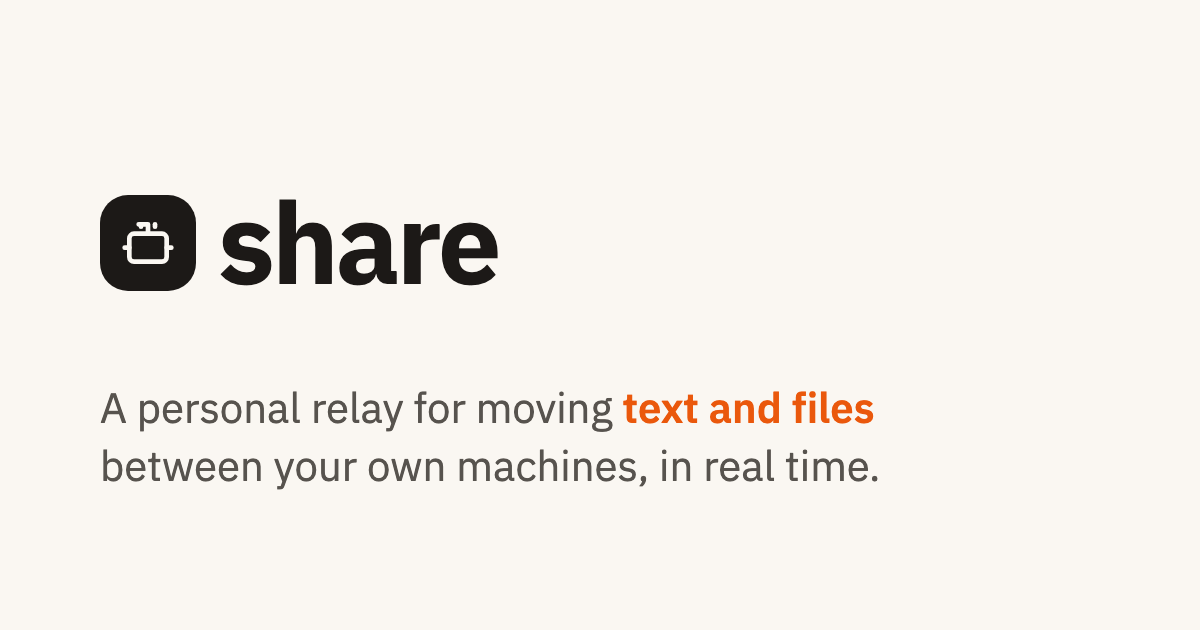
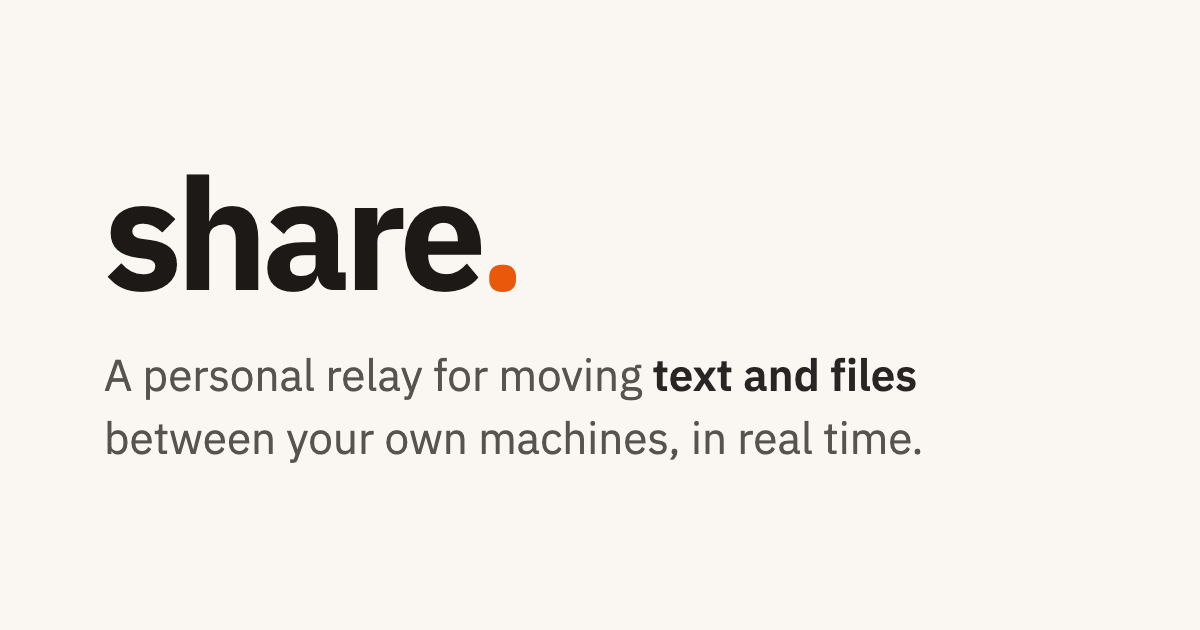
feat(ui): iOS and foldable-grade responsive polish (dvh, safe areas, touch)

Changed region(s): [[0.0617, 0.573, 0.7708, 0.7841], [0.0617, 0.2714, 0.4317, 0.4825]]

diff --git a/src/lib/molecules/ModeSwitcher.svelte b/src/lib/molecules/ModeSwitcher.svelte
@@ -28,7 +28,7 @@
     onclick={() => onPick("text")}
     aria-pressed={mode === "text"}
     title={labelText}
-    class="relative z-10 flex size-7 items-center justify-center rounded-full transition-colors duration-200 {mode ===
+    class="relative z-10 flex size-7 items-center justify-center rounded-full transition-colors duration-200 pointer-coarse:size-9 {mode ===
     'text'
       ? 'text-white'
       : 'text-stone-400 hover:text-stone-700'}"
@@ -39,7 +39,7 @@
     onclick={() => onPick("file")}
     aria-pressed={mode === "file"}
     title={labelFiles}
-    class="relative z-10 flex size-7 items-center justify-center rounded-full transition-colors duration-200 {mode ===
+    class="relative z-10 flex size-7 items-center justify-center rounded-full transition-colors duration-200 pointer-coarse:size-9 {mode ===
     'file'
       ? 'text-white'
       : 'text-stone-400 hover:text-stone-700'}"

diff --git a/og-src.html b/og-src.html
@@ -1,0 +1,45 @@
+<!doctype html>
+<meta charset="utf-8" />
+<style>
+  * {
+    margin: 0;
+  }
+  html,
+  body {
+    width: 1200px;
+    height: 630px;
+  }
+  body {
+    display: flex;
+    flex-direction: column;
+    justify-content: center;
+    align-items: flex-start;
+    gap: 36px;
+    padding: 0 104px;
+    background: #faf7f2;
+    color: #1c1917;
+    font-family: "IBM Plex Sans SC", "PingFang SC", system-ui, sans-serif;
+  }
+  h1 {
+    font-size: 148px;
+    font-weight: 700;
+    letter-spacing: -0.04em;
+    line-height: 1;
+  }
+  h1 span {
+    color: #ea580c;
+  }
+  p {
+    font-size: 42px;
+    color: #57534e;
+    line-height: 1.5;
+  }
+  p b {
+    color: #292524;
+    font-weight: 600;
+  }
+</style>
+<h1>share<span>.</span></h1>
+<p>
+  A personal relay for moving <b>text and files</b><br />between your own machines, in real time.
+</p>

diff --git a/src/routes/+page.svelte b/src/routes/+page.svelte
@@ -164,8 +164,12 @@
 />
 <svelte:document onvisibilitychange={onVisibilityChange} />
 
-<main class="mx-auto max-w-3xl space-y-4 px-4 py-6">
-  <header class="flex items-center justify-between">
+<main
+  class="mx-auto max-w-3xl space-y-4 py-6 pl-[max(1rem,env(safe-area-inset-left))] pr-[max(1rem,env(safe-area-inset-right))] pb-[max(1.5rem,env(safe-area-inset-bottom))]"
+>
+  <!-- flex-wrap: on phones (and iPhone Duo folded) the expanded language strip
+       wraps below the mode switcher instead of overflowing the viewport -->
+  <header class="flex flex-wrap items-center justify-between gap-x-3 gap-y-2">
     <div class="flex items-center gap-3">
       <StatusDot status={space.status} />
       <ModeSwitcher {mode} onPick={setMode} labelText={m.modeText} labelFiles={m.modeFiles} />

diff --git a/src/app.css b/src/app.css
@@ -2,6 +2,19 @@
 
 html {
   font-family: "IBM Plex Sans SC", "PingFang SC", "Microsoft YaHei UI", system-ui, sans-serif;
+  -webkit-text-size-adjust: 100%;
+}
+
+body {
+  background-color: #faf7f2;
+  /* app-like feel: no rubber-band page bounce or pull-to-refresh jank on iOS */
+  overscroll-behavior-y: none;
+  -webkit-tap-highlight-color: transparent;
+}
+
+button {
+  /* kill the legacy 300ms delay / double-tap zoom on iOS */
+  touch-action: manipulation;
 }
 
 html:lang(zh-TW) {
@@ -10,10 +23,6 @@ html:lang(zh-TW) {
 
 html:lang(ko) {
   font-family: "IBM Plex Sans KR", "Apple SD Gothic Neo", "Malgun Gothic", system-ui, sans-serif;
-}
-
-body {
-  background-color: #faf7f2;
 }
 
 ::selection {

diff --git a/src/lib/molecules/LangNav.svelte b/src/lib/molecules/LangNav.svelte
@@ -184,7 +184,8 @@
     opacity: 0;
   }
 
-  /* devices without hover: stay expanded with full labels */
+  /* devices without hover: the strip can never expand on demand, so show all
+     languages with full labels at all times (the header wraps on narrow screens) */
   @media (hover: none) {
     .langbtn > .short {
       display: none;
@@ -193,6 +194,13 @@
     .langbtn > .full {
       max-width: 7em;
       opacity: 1;
+    }
+
+    .langnav:not(:hover):not(:focus-within) .langbtn:not(.is-selected) {
+      max-width: 7em;
+      padding-inline: 0.75rem;
+      opacity: 1;
+      visibility: visible;
     }
   }
 

diff --git a/src/lib/organisms/Composer.svelte b/src/lib/organisms/Composer.svelte
@@ -69,7 +69,7 @@
       onscroll={markScrolling}
       autofocus
       placeholder={m.placeholder}
-      class="scroll-autohide block max-h-[min(30lh,70vh)] min-h-[2lh] w-full resize-none overflow-y-auto bg-transparent px-5 py-4 text-lg leading-relaxed field-sizing-content focus:outline-none"
+      class="scroll-autohide block max-h-[min(30lh,70dvh)] min-h-[2lh] w-full resize-none overflow-y-auto bg-transparent px-5 py-4 text-lg leading-relaxed field-sizing-content focus:outline-none"
     ></textarea>
   </div>
 {:else}

diff --git a/src/app.html b/src/app.html
@@ -2,7 +2,7 @@
 <html lang="en">
   <head>
     <meta charset="utf-8" />
-    <meta name="viewport" content="width=device-width, initial-scale=1" />
+    <meta name="viewport" content="width=device-width, initial-scale=1, viewport-fit=cover" />
     <title>share — move text &amp; files between your machines</title>
     <meta
       name="description"
